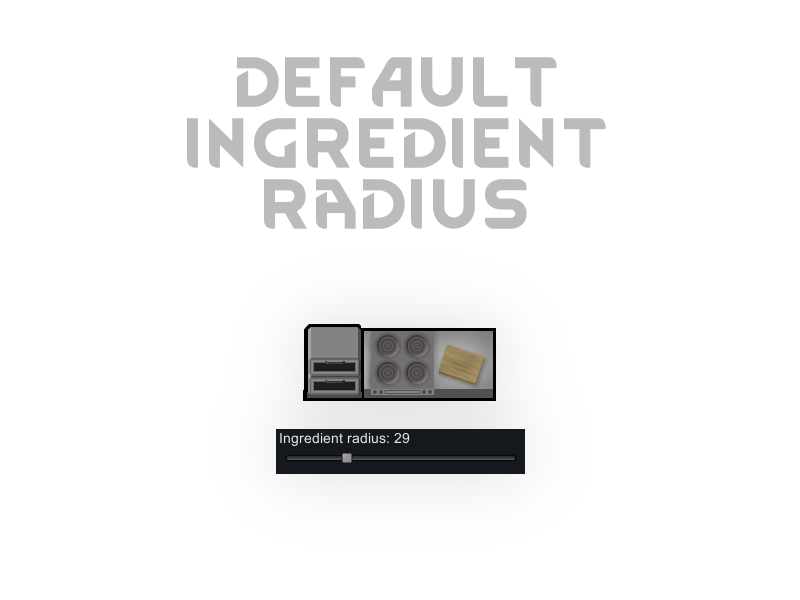
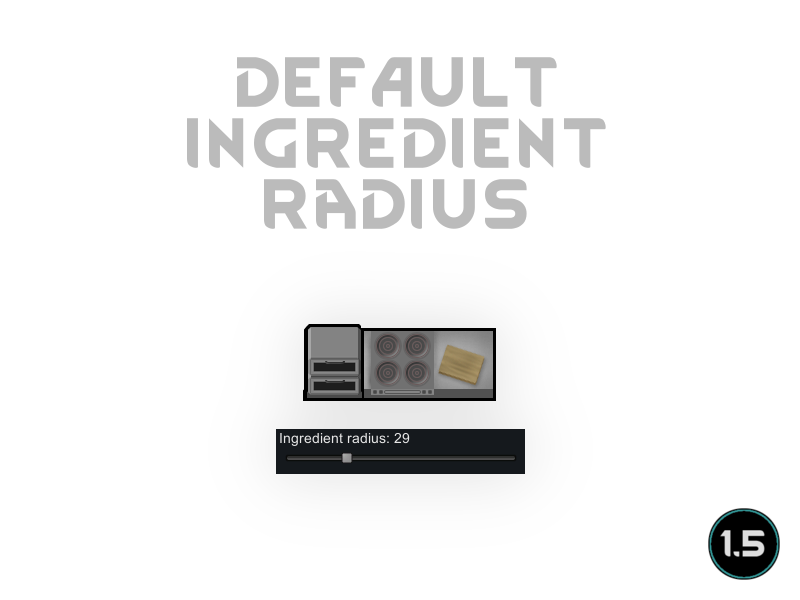
Mod updated for 1.5 and passed autotests

Changed region(s): [[0.875, 0.84, 1.0, 0.99]]

diff --git a/README.md b/README.md
@@ -1,6 +1,6 @@
 # DefaultIngredientRadius
 
-![Image](https://i.imgur.com/buuPQel.png)
+![Image](https://i.imgur.com/iCj5o7O.png)
 
 
 It happened one time to much, my chef went half way across the map to fetch three berries when cooking the simple meal just because I've forgotten to set the ingredient search radius.
@@ -8,25 +8,29 @@ It happened one time to much, my chef went half way across the map to fetch thre
 In the mod-options you can set the default range for new bills. Existing bills will not be affected.
 Verified to work with https://steamcommunity.com/sharedfiles/filedetails/?id=935982361]Better Workbench Management
 	
-![Image](https://i.imgur.com/O0IIlYj.png)
+![Image](https://i.imgur.com/Ds0rBAD.png)
 
 Since modding is just a hobby for me I expect no donations to keep modding. If you still want to show your support you can gift me anything from my https://store.steampowered.com/wishlist/id/Mlie]Wishlist or buy me a cup of tea.
 
-https://ko-fi.com/G2G55DDYD]![Image](https://i.imgur.com/Utx6OIH.png)
+https://ko-fi.com/G2G55DDYD]![Image](https://i.imgur.com/VWG0yff.png)
 
 
-![Image](https://i.imgur.com/PwoNOj4.png)
+![Image](https://i.imgur.com/5xwDG6H.png)
 
 
 
 -  See if the the error persists if you just have this mod and its requirements active.
 -  If not, try adding your other mods until it happens again.
--  Post your error-log using https://steamcommunity.com/workshop/filedetails/?id=818773962]HugsLib and command Ctrl+F12
+-  Post your error-log using https://steamcommunity.com/workshop/filedetails/?id=818773962]HugsLib or the standalone https://steamcommunity.com/sharedfiles/filedetails/?id=2873415404]Uploader and command Ctrl+F12
 -  For best support, please use the Discord-channel for error-reporting.
 -  Do not report errors by making a discussion-thread, I get no notification of that.
 -  If you have the solution for a problem, please post it to the GitHub repository.
+-  Use https://github.com/RimSort/RimSort/releases/latest]RimSort to sort your mods
 
 
 
 
 https://steamcommunity.com/sharedfiles/filedetails/changelog/2497907804]Last updated 2022-12-26
+
+https://steamcommunity.com/sharedfiles/filedetails/changelog/2909706985]![Image](https://img.shields.io/github/v/release/emipa606/DefaultIngredientRadius?label=latest%20version&style=plastic&labelColor=0070cd&color=white)
+
